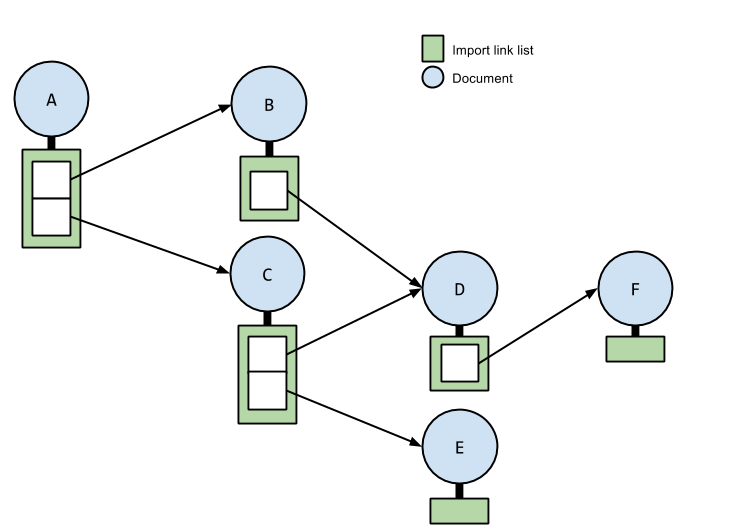
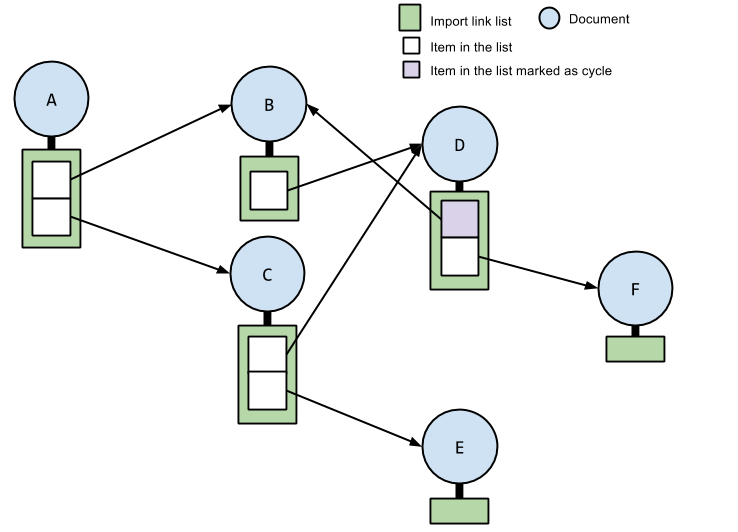
[import] Makes "cycle" concept explicit.
This change adds an additional flag to the link list item
that states if the link is cycle or not.

It also let list related algorithms to handle the cycle.

diff --git a/spec/imports/index.html b/spec/imports/index.html
@@ -210,24 +210,24 @@ Giving up an import before it loads, even if the import eventually does still lo
 
 <h2 id="loading-imports">Loading Imports</h2>
 
-<p>Each document has an <dfn id="dfn-import-link-list">import link list</dfn>, each of whose item is consist of <dfn id="dfn-import-link-link">link</dfn>, the <code><a href="http://www.whatwg.org/specs/web-apps/current-work/multipage/semantics.html#the-link-element">link</a></code> element and <dfn id="import-link-list-location">location</dfn>, a URL. The list is empty at beginning and the item is added by <a href="#dfn-import-request">import request</a>.</p>
+<p>Each document has an <dfn id="dfn-import-link-list">import link list</dfn>, each of whose item is consist of <dfn id="dfn-import-link-link">link</dfn>, the <code><a href="http://www.whatwg.org/specs/web-apps/current-work/multipage/semantics.html#the-link-element">link</a></code> element and <dfn id="import-link-list-location">location</dfn>, a URL.
+Also, the item is optionally <dfn id="dfn-import-link-list-cycle">marked as cycle</dfn>.
+The list is empty at beginning and the item is added by <a href="#dfn-import-request">import request</a> altorighm.</p>
 
-<!-- // FIXME: The addition algorithm should prevent cycles -->
-
-<p>An <a href="#dfn-imported-document">imported document</a> has zero or more <dfn id="def-import-link-ancestor">link ancestor</dfn>.  The <a href="#def-import-link-ancestor">link ancestor</a> is a document. If the <a href="#dfn-import-link-list">import link list</a> of document <var>A</var> contains an item whose <a href="#import-link-list-location">location</a> points document <var>B</var>, <var>A</var> is a <a href="#def-import-link-ancestor">link ancestor</a> of <var>B</var>. <var>B</var> is also called the <dfn id="dfn-import-link-parent">link parent</dfn> of the document. The <a href="#def-import-link-ancestor">link ancestor</a> is transitive: If document <var>C</var> is a <a href="#def-import-link-ancestor">link ancestor</a> of document <var>B</var> and document <var>B</var> is a <a href="#def-import-link-ancestor">link ancestor</a> of document <var>A</var>, <var>C</var> is a <a href="#def-import-link-ancestor">link ancestor</a> of document <var>A</var>.</p>
+<p>An <a href="#dfn-imported-document">imported document</a> has zero or more <dfn id="def-import-link-ancestor">link ancestor</dfn>. The <a href="#def-import-link-ancestor">link ancestor</a> is a document. If the <a href="#dfn-import-link-list">import link list</a> of document <var>A</var> contains an non-<a href="#dfn-import-link-list-cycle">cycle</a> item whose <a href="#import-link-list-location">location</a> points document <var>B</var>, <var>A</var> is a <a href="#def-import-link-ancestor">link ancestor</a> of <var>B</var>. <var>B</var> is also called the <dfn id="dfn-import-link-parent">link parent</dfn> of the document. The <a href="#def-import-link-ancestor">link ancestor</a> is transitive: If document <var>C</var> is a <a href="#def-import-link-ancestor">link ancestor</a> of document <var>B</var> and document <var>B</var> is a <a href="#def-import-link-ancestor">link ancestor</a> of document <var>A</var>, <var>C</var> is a <a href="#def-import-link-ancestor">link ancestor</a> of document <var>A</var>.</p>
 
 <p>An <a href="#dfn-imported-document">imported document</a> also has one or more <dfn id="dfn-import-link-predecessor">link predecessor</dfn>. The <a href="#dfn-import-link-predecessor">link predecessor</a> is a document. If the URL of document <var>A</var> is located before the URL of document <var>B</var> in the <a href="#dfn-import-link-list">import link list</a> of <var>B</var>'s <a href="#dfn-import-link-parent">link parent</a>, <var>A</var> is <a href="#dfn-import-link-predecessor">link predecessor</a> of <var>B</var>. The <a href="#dfn-import-link-predecessor">link predecessor</a> is transitive. If document <var>A</var> is <a href="#dfn-import-link-predecessor">link predecessor</a> of document <var>B</var> and <var>B</var> is redecessor of document <var>C</var>, <var>A</var> is <a href="#dfn-import-link-predecessor">link predecessor</a> of <var>C</var>. The documents that is in either <a href="#dfn-import-link-ancestor">link ancestors</a> or <a href="#dfn-import-link-predecessor">link predecessors</a> of document <var>A</var> is <dfn id="dfn-link-dependent">link dependent</dfn> of <var>A</var>.</p>
 
-<p>Once all <a href="#dfn-link-dependent">link dependents</a> are <a href="http://www.whatwg.org/specs/web-apps/current-work/multipage/the-end.html#completely-loaded">completely loaded</a> and all <a href="#dfn-import-link-link">link</a> in <a href="#dfn-import-link-list">import link list</a> finished obtaining external resources, the <dfn id="dfn-imports-resolved">imports are resolved</dfn> for the document.</p>
+<p>Once all <a href="#dfn-link-dependent">link dependents</a> are <a href="http://www.whatwg.org/specs/web-apps/current-work/multipage/the-end.html#completely-loaded">completely loaded</a> and <a href="#dfn-import-link-link">link</a> in <a href="#dfn-import-link-list">import link list</a> that aren't marked as <a href="#dfn-import-link-list-cycle">cycle</a> finished obtaining external resources, the <dfn id="dfn-imports-resolved">imports are resolved</dfn> for the document.</p>
 
 <div class="informative">
-<p>The linking structure of <a href="#dfn-import-link-list">import link lists</a> forms a directed asyclic graph (DAG). Each node of the DAG is a document and its edge is a <a href="#dfn-import-link-link">link</a>. It cannot be a tree because more than one link can point same import. Any cycle is prevented by the <a href="#dfn-import-request">import request</a> algorithm.</p>
+<p>The linking structure of <a href="#dfn-import-link-list">import link lists</a> forms a directed asyclic graph (DAG). Each node of the DAG is a document and its edge is a <a href="#dfn-import-link-link">link</a>. It cannot be a tree because more than one link can point same import. Any cycle is marked by the <a href="#dfn-import-request">import request</a> algorithm and excluded from dependency calculation.</p>
 <p>The edges of each node are ordered, whose order is defined by the <a href="#dfn-import-link-list">import link list</a>. This order defines how <a href="#dfn-import-link-predecessor">link predecessors</a> is selected.</p>
 
 <figure id="fig-import-list">
   <img src="../../assets/images/import-link-list.png">
   <figcaption>
-    A example of import link lists.
+    An example of import link lists.
   </figcaption>
 </figure>
 
@@ -236,6 +236,7 @@ In the figure,
 <ul>
   <li>The document <var>A</var> has an <a href="#dfn-imort-link-list">import link list</a> which contains a link to <var>B</var> and another link to <var>C</var>.
   <li>The document <var>D</var> has a set of <a href="#dfn-import-link-ancestor">link ancestors</a> that is <var>A</var>, <var>B</var> and <var>c</var>.
+  <li>As <var>B</var> is a <a href="#dfn-import-link-ancestor">link ancestor</a> of <var>D</var>, one of <var>D</var>'s list item that points <var>B</var> is marked as <a href="#dfn-import-link-list-cycle">cycle</a>.
   <li>The <a href="#dfn-import-link-predecessor">link predeceorigissors</a> of <var>E</var> is <var>B</var> and <var>D</var>. Its <a href="#dfn-import-link-ancestor">link ancestors</a> are <var>A</var> and <var>C</var>.
       Thus its <a href="#dfn-import-link-dependent">link dependents</a> are <var>A</var>, <var>B</var>, <var>C</var> and <var>D</var>.
   <li>The document <var>D</var> has two <a href="#dfn-import-link-parent">link parents</a> which are <var>B</var> and <var>C</var>.
@@ -255,9 +256,11 @@ In the figure,
 <ol>
   <li>Let <var>DOCUMENT</var> be a document of <var>LINK</var>.
   <li>Let <var>LIST</var> be an <a href="#dfn-import-link-list">import link list</a> of <var>DOCUMENT</var>.
-    <li>If there is a <a href="#dfn-import-link-ancestor">link ancestor</a> of <var>DOCUMENT</var> whose URL is same as <var>LOCATION</var>, <strong>stop</strong>.
-  <li>Let <var>ITEM</var> be <var>LINK</var> and <var>LOCATION</var>.</li>
-  <li>Add <var>ITEM</var> at the end of <var>LIST</var>.
+  <li>Let <var>ITEM</var> be <var>LINK</var> and <var>LOCATION</var>:</li>
+  <ol>
+    <li>If there is a <a href="#dfn-import-link-ancestor">link ancestor</a> of <var>DOCUMENT</var> whose URL is same as <var>LOCATION</var>, Mark <var>ITEM</var> as <a href="#dfn-import-link-list-cycle">cycle</a>.
+    <li>Add <var>ITEM</var> at the end of <var>LIST</var>.
+  </oi>
 </ol>
 </div>
 
